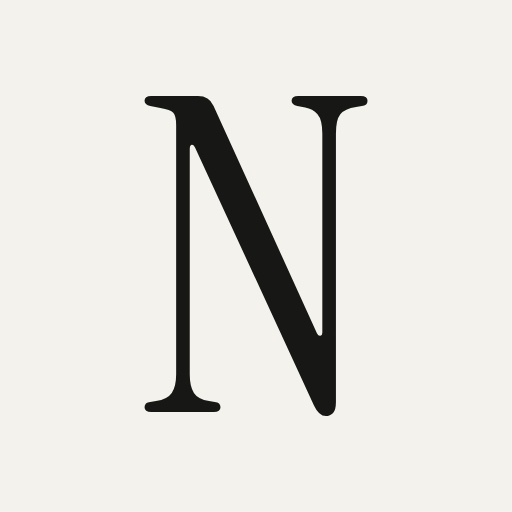
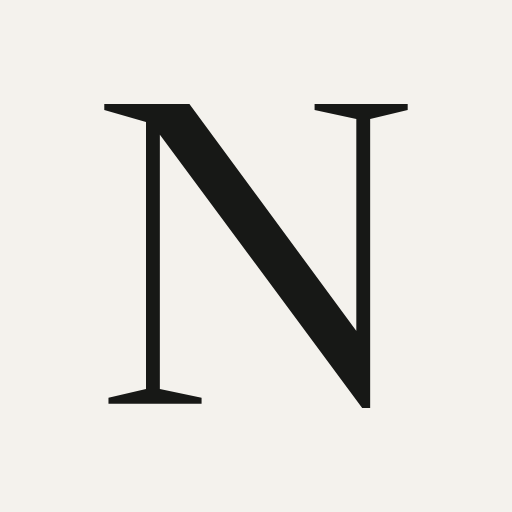
Add dark mode switch and switch headings to Newsreader
- Light/dark switch in the nav (role=switch). Follows the system setting
  until the visitor chooses; the choice persists in localStorage and is
  applied before first paint to avoid a flash.
- Dark palette defined as token overrides under [data-theme='dark'].
- Replace Instrument Serif with Newsreader (optical sizes) for
  readability; retune display sizes and bump labels to 12px.
- Regenerate favicon, app icons and OG image in Newsreader.

Claude-Session: https://claude.ai/code/session_01WmPHjDjLqS8XYNbB5FRFVp

Changed region(s): [[0.5, 0.1875, 0.8125, 0.8125], [0.1875, 0.1875, 0.5, 0.8125], [0.4688, 0.4688, 0.5, 0.5312]]

diff --git a/src/index.css b/src/index.css
@@ -8,7 +8,7 @@
   --color-rule: #d8d6cf;
   --color-white: #ffffff;
 
-  --font-serif: 'Instrument Serif', 'Times New Roman', Georgia, serif;
+  --font-serif: 'Newsreader Variable', 'Newsreader', Georgia, 'Times New Roman', serif;
   --font-sans: 'Inter Variable', 'Inter', ui-sans-serif, system-ui, -apple-system, 'Helvetica Neue', Arial, sans-serif;
 
   --ease-editorial: cubic-bezier(0.22, 1, 0.36, 1);
@@ -16,8 +16,32 @@
 
 /* ── Base ─────────────────────────────────────────────────── */
 
+/* ── Themes ───────────────────────────────────────────────
+   Light is the default. Dark is applied via <html data-theme="dark">,
+   set before first paint by the inline script in index.html. */
+
+@layer base {
+  :root {
+    color-scheme: light;
+    --backdrop: rgb(23 24 22 / 0.28);
+  }
+
+  :root[data-theme='dark'] {
+    color-scheme: dark;
+    --color-paper: #141513;
+    --color-ink: #eceae3;
+    --color-muted: #9c9d96;
+    --color-olive: #a7b39e;
+    --color-rule: #2f312d;
+    --backdrop: rgb(0 0 0 / 0.55);
+  }
+}
+
 @layer base {
   html {
+    transition:
+      background-color 500ms var(--ease-editorial),
+      color 500ms var(--ease-editorial);
     background: var(--color-paper);
     color: var(--color-ink);
     scroll-behavior: smooth;
@@ -52,18 +76,18 @@
 
 @utility label {
   font-family: var(--font-sans);
-  font-size: 0.6875rem; /* 11px */
+  font-size: 0.75rem; /* 12px */
   line-height: 1.4;
   font-weight: 500;
-  letter-spacing: 0.2em;
+  letter-spacing: 0.16em;
   text-transform: uppercase;
 }
 
 @utility display {
   font-family: var(--font-serif);
   font-weight: 400;
-  letter-spacing: -0.015em;
-  line-height: 0.98;
+  letter-spacing: -0.02em;
+  line-height: 1.04;
 }
 
 @utility wrap-content {
@@ -199,18 +223,18 @@
   }
 }
 .enquiry-dialog::backdrop {
-  background: rgb(23 24 22 / 0);
+  background: transparent;
   transition:
     background 600ms var(--ease-editorial),
     overlay 600ms allow-discrete,
     display 600ms allow-discrete;
 }
 .enquiry-dialog[open]::backdrop {
-  background: rgb(23 24 22 / 0.28);
+  background: var(--backdrop);
 }
 @starting-style {
   .enquiry-dialog[open]::backdrop {
-    background: rgb(23 24 22 / 0);
+    background: transparent;
   }
 }
 

diff --git a/src/components/Navbar.tsx b/src/components/Navbar.tsx
@@ -1,4 +1,6 @@
 import type { CSSProperties } from 'react'
+import { useTheme } from '../hooks/useTheme'
+import { ThemeToggle } from './ThemeToggle'
 
 const LINKS = [
   { href: '#portfolio', label: 'Portfolio' },
@@ -7,24 +9,36 @@ const LINKS = [
 ]
 
 export function Navbar() {
+  const { theme, setTheme } = useTheme()
+
   return (
     <header className="wrap-content enter-fade" style={{ '--delay': '100ms' } as CSSProperties}>
       <nav
         aria-label="Primary"
-        className="flex flex-col gap-6 border-b sm:flex-row sm:items-baseline sm:justify-between border-rule pt-7 pb-5 md:pt-10 md:pb-6"
+        className="flex flex-col gap-6 border-b border-rule pt-7 pb-5 sm:flex-row sm:items-baseline sm:justify-between md:pt-10 md:pb-6"
       >
-        <a href="#top" className="label tracking-[0.32em] text-ink" aria-label="Namefolio — back to top">
-          Namefolio
-        </a>
-        <ul className="flex items-baseline justify-between sm:justify-end sm:gap-8 md:gap-12">
-          {LINKS.map((link) => (
-            <li key={link.href}>
-              <a href={link.href} className="label link-line pb-1 text-muted transition-colors duration-300 hover:text-ink">
-                {link.label}
-              </a>
-            </li>
-          ))}
-        </ul>
+        <div className="flex items-center justify-between">
+          <a href="#top" className="label tracking-[0.3em] text-ink" aria-label="Namefolio — back to top">
+            Namefolio
+          </a>
+          <ThemeToggle theme={theme} onChange={setTheme} className="flex sm:hidden" />
+        </div>
+        <div className="flex items-baseline gap-8 md:gap-12">
+          <ul className="flex flex-1 items-baseline justify-between sm:justify-end sm:gap-8 md:gap-12">
+            {LINKS.map((link) => (
+              <li key={link.href}>
+                <a
+                  href={link.href}
+                  className="label link-line pb-1 text-muted transition-colors duration-300 hover:text-ink"
+                >
+                  {link.label}
+                </a>
+              </li>
+            ))}
+          </ul>
+          <span aria-hidden="true" className="hidden h-3 w-px self-center bg-rule sm:block" />
+          <ThemeToggle theme={theme} onChange={setTheme} className="hidden sm:flex" />
+        </div>
       </nav>
     </header>
   )

diff --git a/src/hooks/useTheme.ts b/src/hooks/useTheme.ts
@@ -1,0 +1,45 @@
+import { useCallback, useEffect, useState } from 'react'
+
+export type Theme = 'light' | 'dark'
+
+const STORAGE_KEY = 'theme'
+
+function currentTheme(): Theme {
+  // index.html sets this before first paint, from localStorage or the system setting.
+  return document.documentElement.dataset.theme === 'dark' ? 'dark' : 'light'
+}
+
+export function useTheme() {
+  const [theme, setThemeState] = useState<Theme>(currentTheme)
+
+  const setTheme = useCallback((next: Theme) => {
+    document.documentElement.dataset.theme = next
+    try {
+      localStorage.setItem(STORAGE_KEY, next)
+    } catch {
+      // Storage unavailable (private mode etc.) — the choice still applies for this visit.
+    }
+    setThemeState(next)
+  }, [])
+
+  // Follow the system setting until the visitor makes an explicit choice.
+  useEffect(() => {
+    const media = window.matchMedia('(prefers-color-scheme: dark)')
+    const onChange = (e: MediaQueryListEvent) => {
+      let saved: string | null = null
+      try {
+        saved = localStorage.getItem(STORAGE_KEY)
+      } catch {
+        // ignore
+      }
+      if (saved) return
+      const next: Theme = e.matches ? 'dark' : 'light'
+      document.documentElement.dataset.theme = next
+      setThemeState(next)
+    }
+    media.addEventListener('change', onChange)
+    return () => media.removeEventListener('change', onChange)
+  }, [])
+
+  return { theme, setTheme }
+}

diff --git a/src/components/ThemeToggle.tsx b/src/components/ThemeToggle.tsx
@@ -1,0 +1,34 @@
+import type { Theme } from '../hooks/useTheme'
+
+interface ThemeToggleProps {
+  theme: Theme
+  onChange: (theme: Theme) => void
+  className?: string
+}
+
+export function ThemeToggle({ theme, onChange, className = '' }: ThemeToggleProps) {
+  const isDark = theme === 'dark'
+
+  return (
+    <button
+      type="button"
+      role="switch"
+      aria-checked={isDark}
+      aria-label="Dark mode"
+      onClick={() => onChange(isDark ? 'light' : 'dark')}
+      className={`group label -my-2 cursor-pointer items-center gap-3 py-2 text-muted transition-colors duration-300 hover:text-ink ${className}`}
+    >
+      <span aria-hidden="true" className="w-[2.5rem] text-right">
+        {isDark ? 'Dark' : 'Light'}
+      </span>
+      {/* A small square-cornered switch: hairline track, solid knob. */}
+      <span aria-hidden="true" className="relative inline-block h-3 w-6 border border-current">
+        <span
+          className={`absolute top-px left-px h-2 w-2 bg-current transition-transform duration-500 ease-editorial ${
+            isDark ? 'translate-x-3' : 'translate-x-0'
+          }`}
+        />
+      </span>
+    </button>
+  )
+}

diff --git a/src/components/Contact.tsx b/src/components/Contact.tsx
@@ -12,7 +12,7 @@ export function Contact() {
           <SectionLabel index="03">Contact</SectionLabel>
         </div>
         <div className="col-span-12 lg:col-span-9">
-          <h2 id="contact-title" className="display text-[clamp(2.75rem,11vw,4rem)] md:text-[clamp(4rem,7.4vw,7rem)]">
+          <h2 id="contact-title" className="display text-[clamp(2.25rem,9.4vw,3.25rem)] md:text-[clamp(3.25rem,6vw,5.75rem)]">
             Let’s talk.
           </h2>
           <p className="mt-10 max-w-[26rem] text-[1.0625rem] leading-[1.65] text-muted md:mt-14 md:text-lg">
@@ -23,7 +23,7 @@ export function Contact() {
             href={`mailto:${SITE.email}`}
             className="group mt-16 inline-flex max-w-full items-baseline gap-4 md:mt-24"
           >
-            <span className="display link-line-rest pb-2 text-[clamp(1.6rem,7.4vw,2.5rem)] leading-tight [overflow-wrap:anywhere] md:text-[clamp(2.5rem,4.6vw,4.25rem)]">
+            <span className="display link-line-rest pb-2 text-[clamp(1.375rem,6.2vw,2.125rem)] leading-tight [overflow-wrap:anywhere] md:text-[clamp(2.125rem,3.8vw,3.5rem)]">
               {SITE.email}
             </span>
             <span

diff --git a/index.html b/index.html
@@ -10,10 +10,23 @@
       content="Namefolio is a private portfolio of premium domain names and a targeted outbound service for domain owners."
     />
     <link rel="canonical" href="https://namefolio.co.uk/" />
-    <meta name="theme-color" content="#F4F2ED" />
+    <meta name="theme-color" content="#F4F2ED" media="(prefers-color-scheme: light)" />
+    <meta name="theme-color" content="#141513" media="(prefers-color-scheme: dark)" />
     <style>
       html { background: #f4f2ed; color: #171816; }
+      html[data-theme='dark'] { background: #141513; color: #eceae3; }
     </style>
+    <!-- Apply the saved (or system) theme before first paint to avoid a flash. -->
+    <script>
+      (function () {
+        var theme
+        try { theme = localStorage.getItem('theme') } catch (e) {}
+        if (theme !== 'light' && theme !== 'dark') {
+          theme = window.matchMedia('(prefers-color-scheme: dark)').matches ? 'dark' : 'light'
+        }
+        document.documentElement.dataset.theme = theme
+      })()
+    </script>
 
     <!-- Open Graph -->
     <meta property="og:type" content="website" />

diff --git a/src/components/DomainRow.tsx b/src/components/DomainRow.tsx
@@ -26,8 +26,8 @@ export function DomainRow({ domain, index, onSelect }: DomainRowProps) {
 
         <span
           className={[
-            'display col-span-2 row-start-2 min-w-0 text-[clamp(2.375rem,10.5vw,3.5rem)] [overflow-wrap:anywhere]',
-            'md:col-span-9 md:col-start-2 md:row-start-1 md:text-[clamp(3rem,6.4vw,6rem)] lg:col-span-7 lg:col-start-4',
+            'display col-span-2 row-start-2 min-w-0 text-[clamp(1.875rem,8.8vw,2.75rem)] [overflow-wrap:anywhere]',
+            'md:col-span-9 md:col-start-2 md:row-start-1 md:text-[clamp(2.5rem,5vw,4.75rem)] lg:col-span-7 lg:col-start-4',
             'transition-transform duration-500 ease-editorial motion-safe:md:group-hover:translate-x-2 motion-safe:md:group-focus-visible:translate-x-2',
             isSold ? 'text-muted' : 'text-ink',
           ].join(' ')}

diff --git a/src/components/Portfolio.tsx b/src/components/Portfolio.tsx
@@ -18,7 +18,7 @@ export function Portfolio({ onSelect }: PortfolioProps) {
           <SectionLabel index="01">Portfolio</SectionLabel>
         </div>
         <div className="col-span-12 lg:col-span-9">
-          <h2 id="portfolio-title" className="display text-[clamp(2.75rem,9vw,3.5rem)] md:text-[clamp(3.5rem,6.2vw,5.75rem)]">
+          <h2 id="portfolio-title" className="display text-[clamp(2.25rem,8vw,3rem)] md:text-[clamp(3rem,5.2vw,4.75rem)]">
             Selected assets
           </h2>
           <p className="mt-8 max-w-[28rem] text-[1.0625rem] leading-[1.65] text-muted md:mt-10">

diff --git a/src/components/EnquiryModal.tsx b/src/components/EnquiryModal.tsx
@@ -99,7 +99,7 @@ function EnquiryForm({ domain }: { domain: string }) {
 
   return (
     <div className="flex flex-1 flex-col">
-      <p className="display mt-14 text-[clamp(2.25rem,10vw,3.5rem)] [overflow-wrap:anywhere] md:mt-20">{domain}</p>
+      <p className="display mt-14 text-[clamp(1.875rem,8vw,2.75rem)] [overflow-wrap:anywhere] md:mt-20">{domain}</p>
 
       {status === 'sent' || status === 'mailto' ? (
         <div className="mt-16 border-t border-rule pt-8" role="status">

diff --git a/src/components/Hero.tsx b/src/components/Hero.tsx
@@ -13,7 +13,7 @@ export function Hero() {
         <div className="col-span-12 lg:col-span-9">
           <h1
             id="hero-title"
-            className="display text-[clamp(3.5rem,14vw,5.25rem)] md:text-[clamp(4.5rem,9vw,9.25rem)]"
+            className="display text-[clamp(2.75rem,11.4vw,4.25rem)] md:text-[clamp(3.75rem,7.4vw,7.5rem)]"
           >
             <span className="enter block" style={delay(300)}>
               Digital assets,

diff --git a/src/components/Outbound.tsx b/src/components/Outbound.tsx
@@ -16,7 +16,7 @@ export function Outbound() {
         <div className="col-span-12 lg:col-span-9">
           <h2
             id="outbound-title"
-            className="display max-w-[11ch] text-[clamp(2.75rem,11vw,4rem)] md:text-[clamp(4rem,7.4vw,7rem)]"
+            className="display max-w-[12ch] text-[clamp(2.25rem,9.4vw,3.25rem)] md:text-[clamp(3.25rem,6vw,5.75rem)]"
           >
             We help domain owners sell.
           </h2>

diff --git a/src/main.tsx b/src/main.tsx
@@ -1,7 +1,7 @@
 import { StrictMode } from 'react'
 import { createRoot } from 'react-dom/client'
-import '@fontsource/instrument-serif/400.css'
-import '@fontsource/instrument-serif/400-italic.css'
+import '@fontsource-variable/newsreader/opsz.css'
+import '@fontsource-variable/newsreader/opsz-italic.css'
 import '@fontsource-variable/inter/wght.css'
 import './index.css'
 import App from './App'
